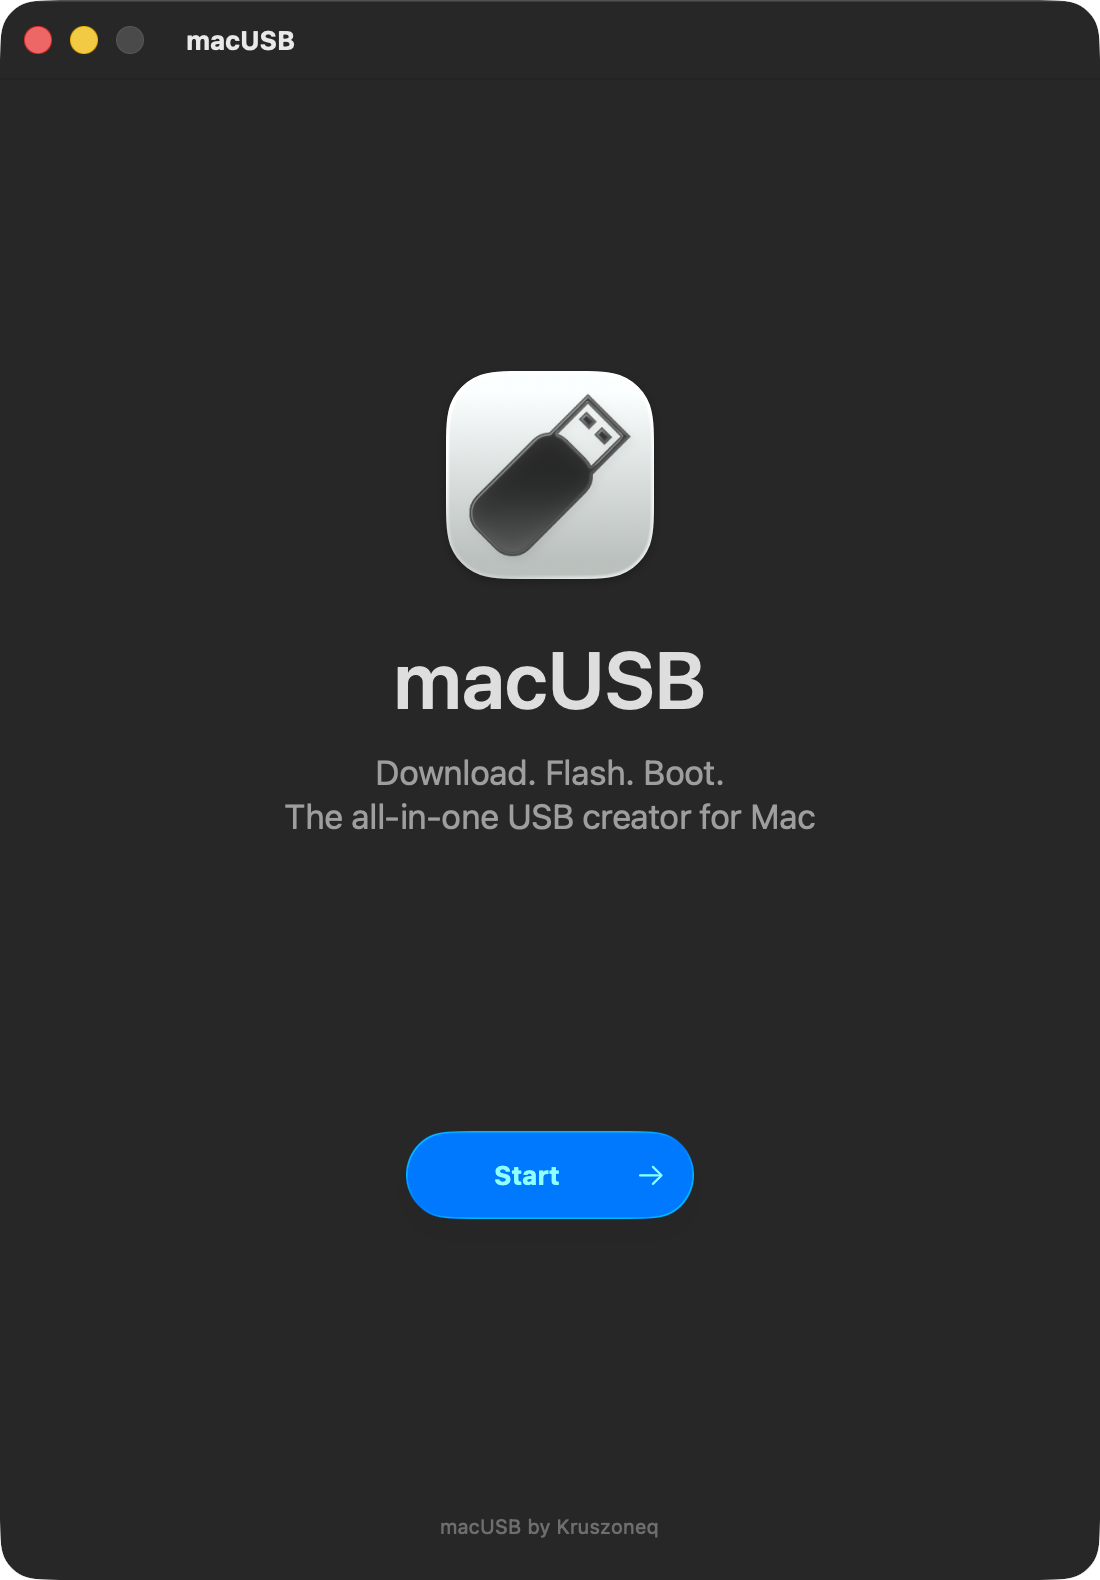
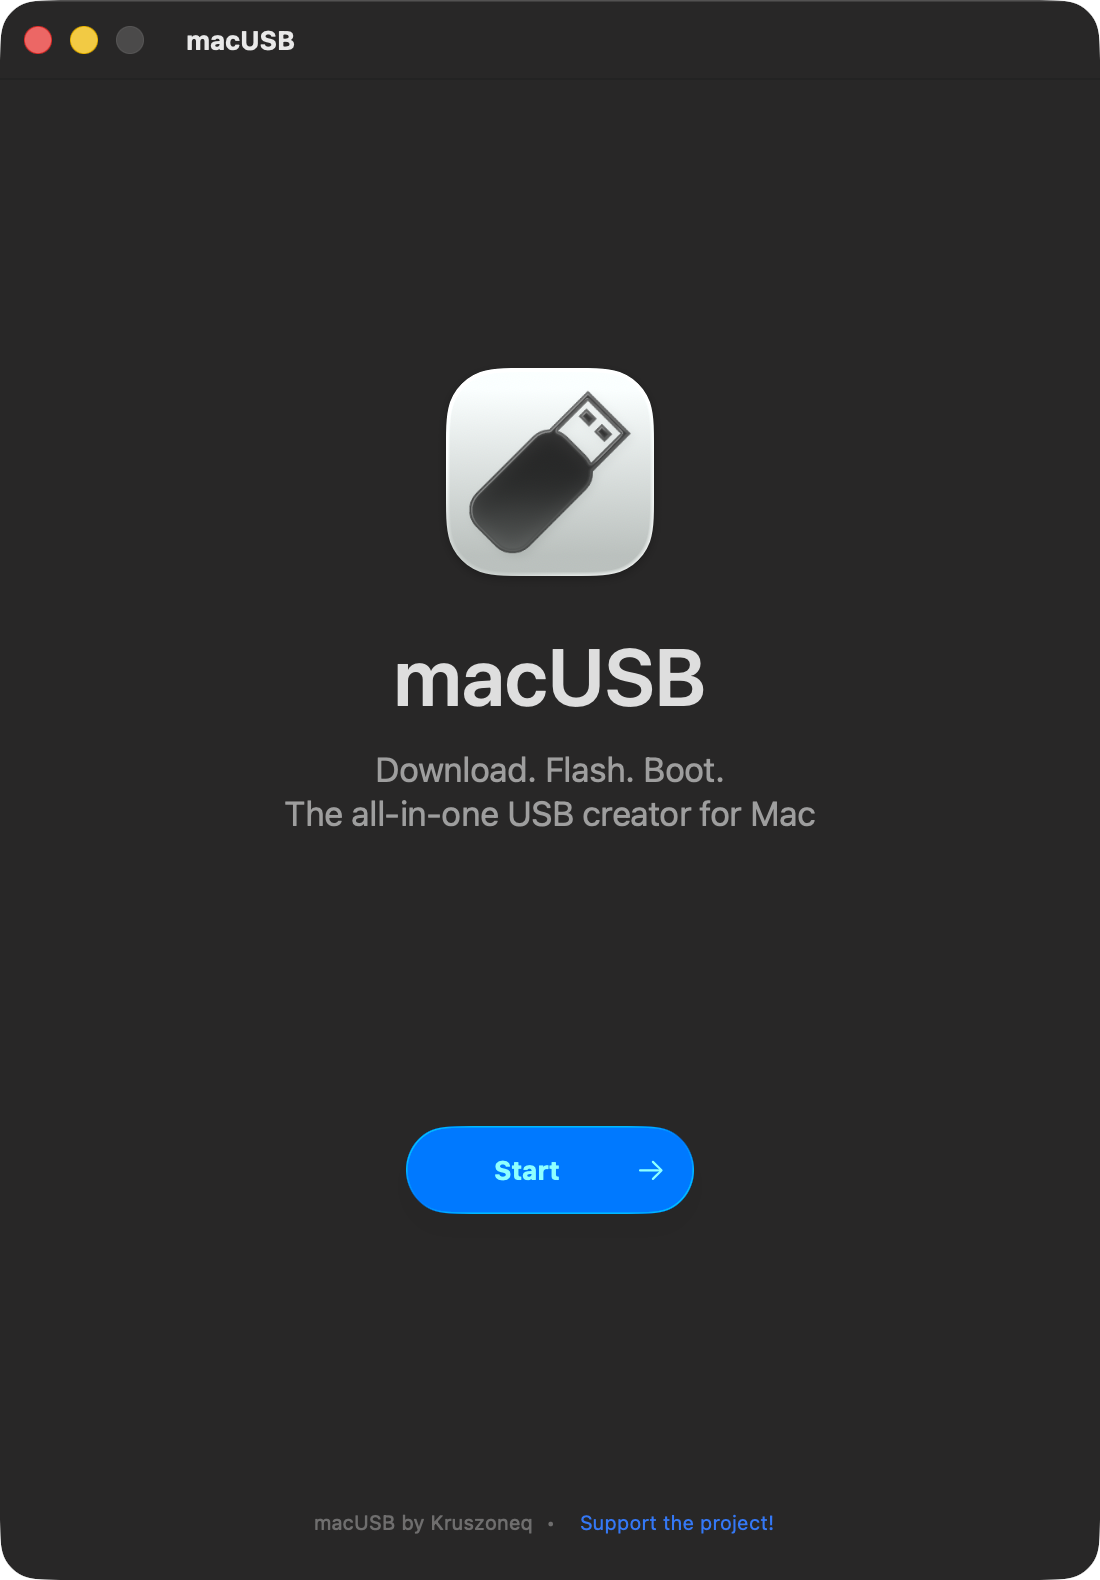
Refresh landing screenshots and expand platform support section
This commit refreshes the USB Creation screenshots with updated app-v2 assets, replaces the former Linux-only support section with a Windows + Linux validation section, adds a low-emphasis fine-print footnote for Windows .wim splitting above the footer, updates the landing page and design documentation to match the implementation, and removes the no-longer-used legacy Linux screenshots.

diff --git a/assets/css/style.css b/assets/css/style.css
@@ -891,6 +891,23 @@ h1 {
   line-height: 1.5;
 }
 
+.home-page sup {
+  font-size: 0.75em;
+  line-height: 0;
+  vertical-align: super;
+  margin-left: 2px;
+}
+
+.home-page sup a {
+  color: var(--color-ink);
+  text-decoration: none;
+  font-weight: 700;
+}
+
+.home-page sup a:hover {
+  text-decoration: underline;
+}
+
 .product-preview-media {
   display: flex;
   flex-direction: column;
@@ -1055,6 +1072,44 @@ body.scrolled .scroll-cue {
   margin-right: auto;
   padding-left: 20px;
   padding-right: 20px;
+}
+
+.home-fine-print {
+  max-width: none;
+  margin-top: 80px;
+  padding: 0 20px;
+}
+
+.home-fine-print-inner {
+  max-width: 980px;
+  margin: 0 auto;
+  padding-top: 18px;
+  border-top: 1px solid var(--color-hairline-soft);
+}
+
+.home-fine-print-copy {
+  margin: 0 auto;
+  max-width: 100%;
+  color: var(--color-muted-soft);
+  font-size: 12px;
+  line-height: 1.6;
+  display: grid;
+  grid-template-columns: auto minmax(0, 1fr);
+  column-gap: 6px;
+  align-items: start;
+}
+
+.home-fine-print-index {
+  white-space: nowrap;
+}
+
+.home-fine-print-text {
+  min-width: 0;
+}
+
+.home-fine-print-copy a {
+  color: inherit;
+  text-underline-offset: 0.14em;
 }
 
 .section-head {
@@ -1285,7 +1340,8 @@ footer .cta-button:hover {
   }
 
   .home-section.home-section-full .section-head,
-  .home-section.home-section-full .section-actions {
+  .home-section.home-section-full .section-actions,
+  .home-fine-print-inner {
     padding-left: 14px;
     padding-right: 14px;
   }

diff --git a/index.html b/index.html
@@ -102,10 +102,10 @@
                 <div class="product-preview-media screenshot-carousel">
                     <div class="screenshot-stage" aria-label="macUSB app screenshots">
                         <img src="assets/screenshots/app-v2/01-welcome.png" alt="macUSB welcome screen" loading="lazy" decoding="async" data-step="1" class="is-active">
-                        <img src="assets/screenshots/app-v2/02-analysis.png" alt="macUSB source and target configuration" loading="lazy" decoding="async" data-step="2">
-                        <img src="assets/screenshots/app-v2/03-overview.png" alt="macUSB operation overview" loading="lazy" decoding="async" data-step="3">
-                        <img src="assets/screenshots/app-v2/04-progress.png" alt="macUSB creation progress" loading="lazy" decoding="async" data-step="4">
-                        <img src="assets/screenshots/app-v2/05-finish.png" alt="macUSB operation result" loading="lazy" decoding="async" data-step="5">
+                        <img src="assets/screenshots/app-v2/02-source-target-analysis.png" alt="macUSB source and target configuration" loading="lazy" decoding="async" data-step="2">
+                        <img src="assets/screenshots/app-v2/03-operation-overview.png" alt="macUSB operation overview" loading="lazy" decoding="async" data-step="3">
+                        <img src="assets/screenshots/app-v2/04-creation-progress.png" alt="macUSB creation progress" loading="lazy" decoding="async" data-step="4">
+                        <img src="assets/screenshots/app-v2/05-operation-result.png" alt="macUSB operation result" loading="lazy" decoding="async" data-step="5">
                     </div>
 
                     <div class="screenshot-dots" aria-label="Screenshot controls">
@@ -144,32 +144,36 @@
             </div>
         </section>
 
-        <section class="home-section reveal" id="linux-support" aria-labelledby="linux-support-title">
+        <section class="home-section reveal" id="platform-support" aria-labelledby="platform-support-title">
             <div class="product-preview-grid">
                 <div class="product-preview-copy">
-                    <span class="section-kicker">Linux Support</span>
-                    <h2 id="linux-support-title" class="product-preview-title">Smart Linux distro validation</h2>
-                    <p class="product-preview-lead">Drop an ISO to instantly verify the exact OS release and system architecture before flashing.</p>
-                    <p class="product-preview-note">Visual confirmation prevents accidental flashing of incorrect versions or unsupported architecture images.</p>
+                    <span class="section-kicker">Windows + Linux</span>
+                    <h2 id="platform-support-title" class="product-preview-title">Smart Windows and Linux image validation</h2>
+                    <p class="product-preview-lead">Drop a Windows or Linux ISO to instantly verify the exact OS release, edition, and architecture before flashing.</p>
+                    <p class="product-preview-note">Oversized Windows .wim files are split automatically to fit within FAT32 limitations.<sup><a href="#footnote-wimlib" aria-label="Read the note about wimlib requirements">1</a></sup></p>
                 </div>
 
                 <div class="product-preview-media screenshot-carousel">
-                    <div class="screenshot-stage" aria-label="macUSB Linux distro detection screenshots">
-                        <img src="assets/screenshots/linux/01-debian.png" alt="macUSB detection result for Debian" loading="lazy" decoding="async" data-step="1" class="is-active">
-                        <img src="assets/screenshots/linux/02-ubuntu.png" alt="macUSB detection result for Ubuntu" loading="lazy" decoding="async" data-step="2">
-                        <img src="assets/screenshots/linux/03-mint.png" alt="macUSB detection result for Linux Mint" loading="lazy" decoding="async" data-step="3">
-                        <img src="assets/screenshots/linux/04-opensuse.png" alt="macUSB detection result for openSUSE" loading="lazy" decoding="async" data-step="4">
-                        <img src="assets/screenshots/linux/05-kali.png" alt="macUSB detection result for Kali Linux" loading="lazy" decoding="async" data-step="5">
-                        <img src="assets/screenshots/linux/06-gentoo.png" alt="macUSB detection result for Gentoo" loading="lazy" decoding="async" data-step="6">
+                    <div class="screenshot-stage" aria-label="macUSB Windows and Linux detection screenshots">
+                        <img src="assets/screenshots/windows-linux/01-windows-11.png" alt="macUSB detection result for Windows 11" loading="lazy" decoding="async" data-step="1" class="is-active">
+                        <img src="assets/screenshots/windows-linux/02-windows-10.png" alt="macUSB detection result for Windows 10" loading="lazy" decoding="async" data-step="2">
+                        <img src="assets/screenshots/windows-linux/03-windows-server-2025.png" alt="macUSB detection result for Windows Server 2025" loading="lazy" decoding="async" data-step="3">
+                        <img src="assets/screenshots/windows-linux/04-windows-server-2022.png" alt="macUSB detection result for Windows Server 2022" loading="lazy" decoding="async" data-step="4">
+                        <img src="assets/screenshots/windows-linux/05-debian.png" alt="macUSB detection result for Debian" loading="lazy" decoding="async" data-step="5">
+                        <img src="assets/screenshots/windows-linux/06-ubuntu.png" alt="macUSB detection result for Ubuntu" loading="lazy" decoding="async" data-step="6">
+                        <img src="assets/screenshots/windows-linux/07-opensuse.png" alt="macUSB detection result for openSUSE Leap" loading="lazy" decoding="async" data-step="7">
+                        <img src="assets/screenshots/windows-linux/08-linux-mint.png" alt="macUSB detection result for Linux Mint" loading="lazy" decoding="async" data-step="8">
                     </div>
 
-                    <div class="screenshot-dots" aria-label="Linux screenshot controls">
-                        <button class="screenshot-dot is-active" type="button" data-step="1" aria-label="Show Linux screenshot 1" aria-pressed="true"></button>
-                        <button class="screenshot-dot" type="button" data-step="2" aria-label="Show Linux screenshot 2" aria-pressed="false"></button>
-                        <button class="screenshot-dot" type="button" data-step="3" aria-label="Show Linux screenshot 3" aria-pressed="false"></button>
-                        <button class="screenshot-dot" type="button" data-step="4" aria-label="Show Linux screenshot 4" aria-pressed="false"></button>
-                        <button class="screenshot-dot" type="button" data-step="5" aria-label="Show Linux screenshot 5" aria-pressed="false"></button>
-                        <button class="screenshot-dot" type="button" data-step="6" aria-label="Show Linux screenshot 6" aria-pressed="false"></button>
+                    <div class="screenshot-dots" aria-label="Windows and Linux screenshot controls">
+                        <button class="screenshot-dot is-active" type="button" data-step="1" aria-label="Show platform screenshot 1" aria-pressed="true"></button>
+                        <button class="screenshot-dot" type="button" data-step="2" aria-label="Show platform screenshot 2" aria-pressed="false"></button>
+                        <button class="screenshot-dot" type="button" data-step="3" aria-label="Show platform screenshot 3" aria-pressed="false"></button>
+                        <button class="screenshot-dot" type="button" data-step="4" aria-label="Show platform screenshot 4" aria-pressed="false"></button>
+                        <button class="screenshot-dot" type="button" data-step="5" aria-label="Show platform screenshot 5" aria-pressed="false"></button>
+                        <button class="screenshot-dot" type="button" data-step="6" aria-label="Show platform screenshot 6" aria-pressed="false"></button>
+                        <button class="screenshot-dot" type="button" data-step="7" aria-label="Show platform screenshot 7" aria-pressed="false"></button>
+                        <button class="screenshot-dot" type="button" data-step="8" aria-label="Show platform screenshot 8" aria-pressed="false"></button>
                     </div>
                 </div>
             </div>
@@ -205,6 +209,12 @@
                     <span>View on GitHub</span>
                 </a>
             </p>
+        </section>
+
+        <section class="home-fine-print" aria-label="Important information">
+            <div class="home-fine-print-inner">
+                <p id="footnote-wimlib" class="home-fine-print-copy"><span class="home-fine-print-index">1.</span><span class="home-fine-print-text">Splitting Windows .wim files requires the free <a href="https://wimlib.net/" target="_blank" rel="noopener">wimlib</a> package. It isn’t included with macUSB and must be installed separately, for example with Homebrew. macUSB checks for it only when a Windows installer requires .wim splitting to fit within FAT32 limitations.</span></p>
+            </div>
         </section>
     </main>
 

diff --git a/docs/LANDING.md b/docs/LANDING.md
@@ -26,10 +26,10 @@ This document describes the actual structure, content, and behavior of `index.ht
 - Note: `The optimal flashing method is applied dynamically based on the source image format.`
 - Carousel screenshots:
   - `assets/screenshots/app-v2/01-welcome.png`
-  - `assets/screenshots/app-v2/02-analysis.png`
-  - `assets/screenshots/app-v2/03-overview.png`
-  - `assets/screenshots/app-v2/04-progress.png`
-  - `assets/screenshots/app-v2/05-finish.png`
+  - `assets/screenshots/app-v2/02-source-target-analysis.png`
+  - `assets/screenshots/app-v2/03-operation-overview.png`
+  - `assets/screenshots/app-v2/04-creation-progress.png`
+  - `assets/screenshots/app-v2/05-operation-result.png`
 
 3. macOS Downloader (`#downloader`)
 - Kicker: `macOS Downloader`
@@ -41,18 +41,20 @@ This document describes the actual structure, content, and behavior of `index.ht
   - `assets/screenshots/downloader/02-download-progress.png`
   - `assets/screenshots/downloader/03-download-summary.png`
 
-4. Linux Support (`#linux-support`)
-- Kicker: `Linux Support`
-- Heading: `Smart Linux distro validation`
-- Lead: `Drop an ISO to instantly verify the exact OS release and system architecture before flashing.`
-- Note: `Visual confirmation prevents accidental flashing of incorrect versions or unsupported architecture images.`
+4. Windows + Linux (`#platform-support`)
+- Kicker: `Windows + Linux`
+- Heading: `Smart Windows and Linux image validation`
+- Lead: `Drop a Windows or Linux ISO to instantly verify the exact OS release, edition, and architecture before flashing.`
+- Note: `Oversized Windows .wim files are split automatically to fit within FAT32 limitations.¹`
 - Carousel screenshots:
-  - `assets/screenshots/linux/01-debian.png`
-  - `assets/screenshots/linux/02-ubuntu.png`
-  - `assets/screenshots/linux/03-mint.png`
-  - `assets/screenshots/linux/04-opensuse.png`
-  - `assets/screenshots/linux/05-kali.png`
-  - `assets/screenshots/linux/06-gentoo.png`
+  - `assets/screenshots/windows-linux/01-windows-11.png`
+  - `assets/screenshots/windows-linux/02-windows-10.png`
+  - `assets/screenshots/windows-linux/03-windows-server-2025.png`
+  - `assets/screenshots/windows-linux/04-windows-server-2022.png`
+  - `assets/screenshots/windows-linux/05-debian.png`
+  - `assets/screenshots/windows-linux/06-ubuntu.png`
+  - `assets/screenshots/windows-linux/07-opensuse.png`
+  - `assets/screenshots/windows-linux/08-linux-mint.png`
 
 5. Legacy macOS (`#why`)
 - Kicker: `Legacy macOS`
@@ -69,6 +71,11 @@ This document describes the actual structure, content, and behavior of `index.ht
 - Heading: `Fully open, always free`
 - Copy: `macUSB is open source and free. Explore the code on GitHub, report issues, and help shape upcoming releases.`
 - CTA: `View on GitHub` -> `https://github.com/Kruszoneq/macUSB`
+
+8. Fine Print
+- Placement: directly above the shared footer
+- Style: low-emphasis, legal-style fine print separated by a thin divider, centered in a narrower container than the main content, with softer contrast and slower line wrapping
+- Footnote `1`: `1. Splitting Windows .wim files requires the free wimlib package. It isn’t included with macUSB and must be installed separately, for example with Homebrew. macUSB checks for it only when a Windows installer requires .wim splitting to fit within FAT32 limitations.`
 
 ## Carousel Behavior Rules
 

diff --git a/docs/DESIGN.md b/docs/DESIGN.md
@@ -53,6 +53,7 @@ It describes how interfaces should look and behave, not what exact marketing cop
 - Alternate media/copy placement can be used for scan rhythm.
 - Kicker labels should be short, uppercase-style section identifiers.
 - Avoid dense multi-column copy blocks in landing sections.
+- Legal-style clarifications and product caveats should appear as restrained fine print above the footer, separated by a thin divider and styled with low visual emphasis.
 
 ## Screenshot Carousel Rules
 